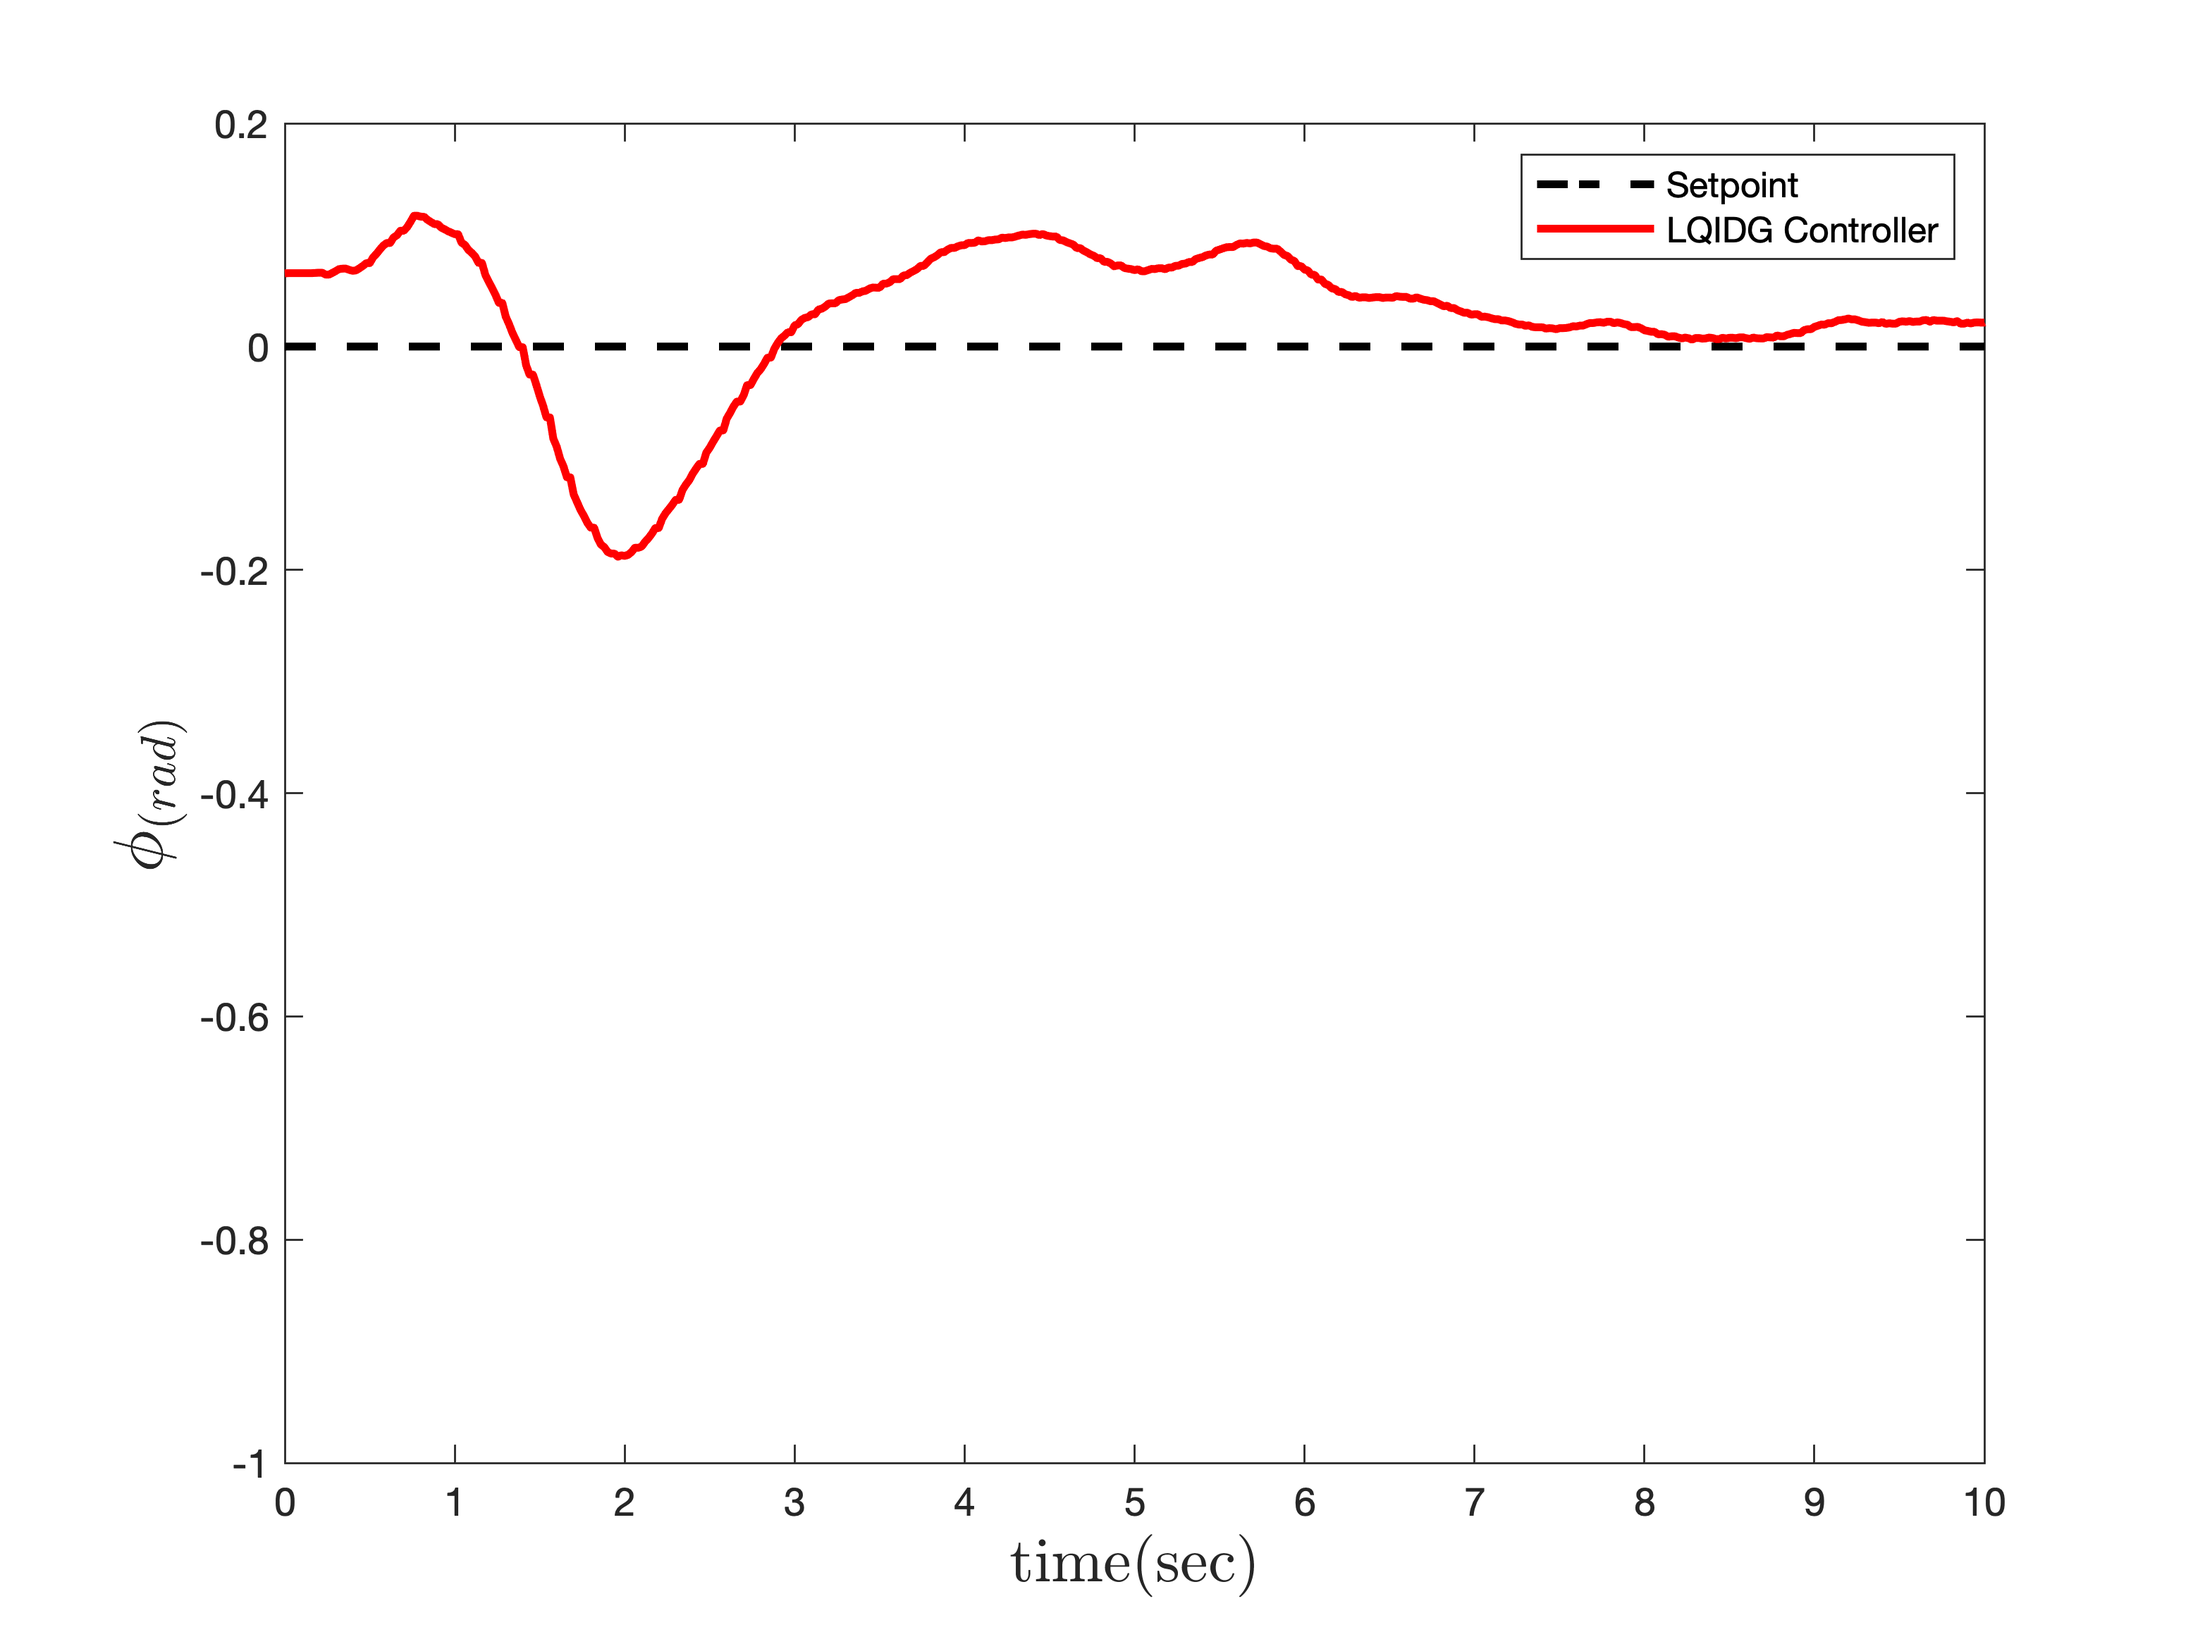
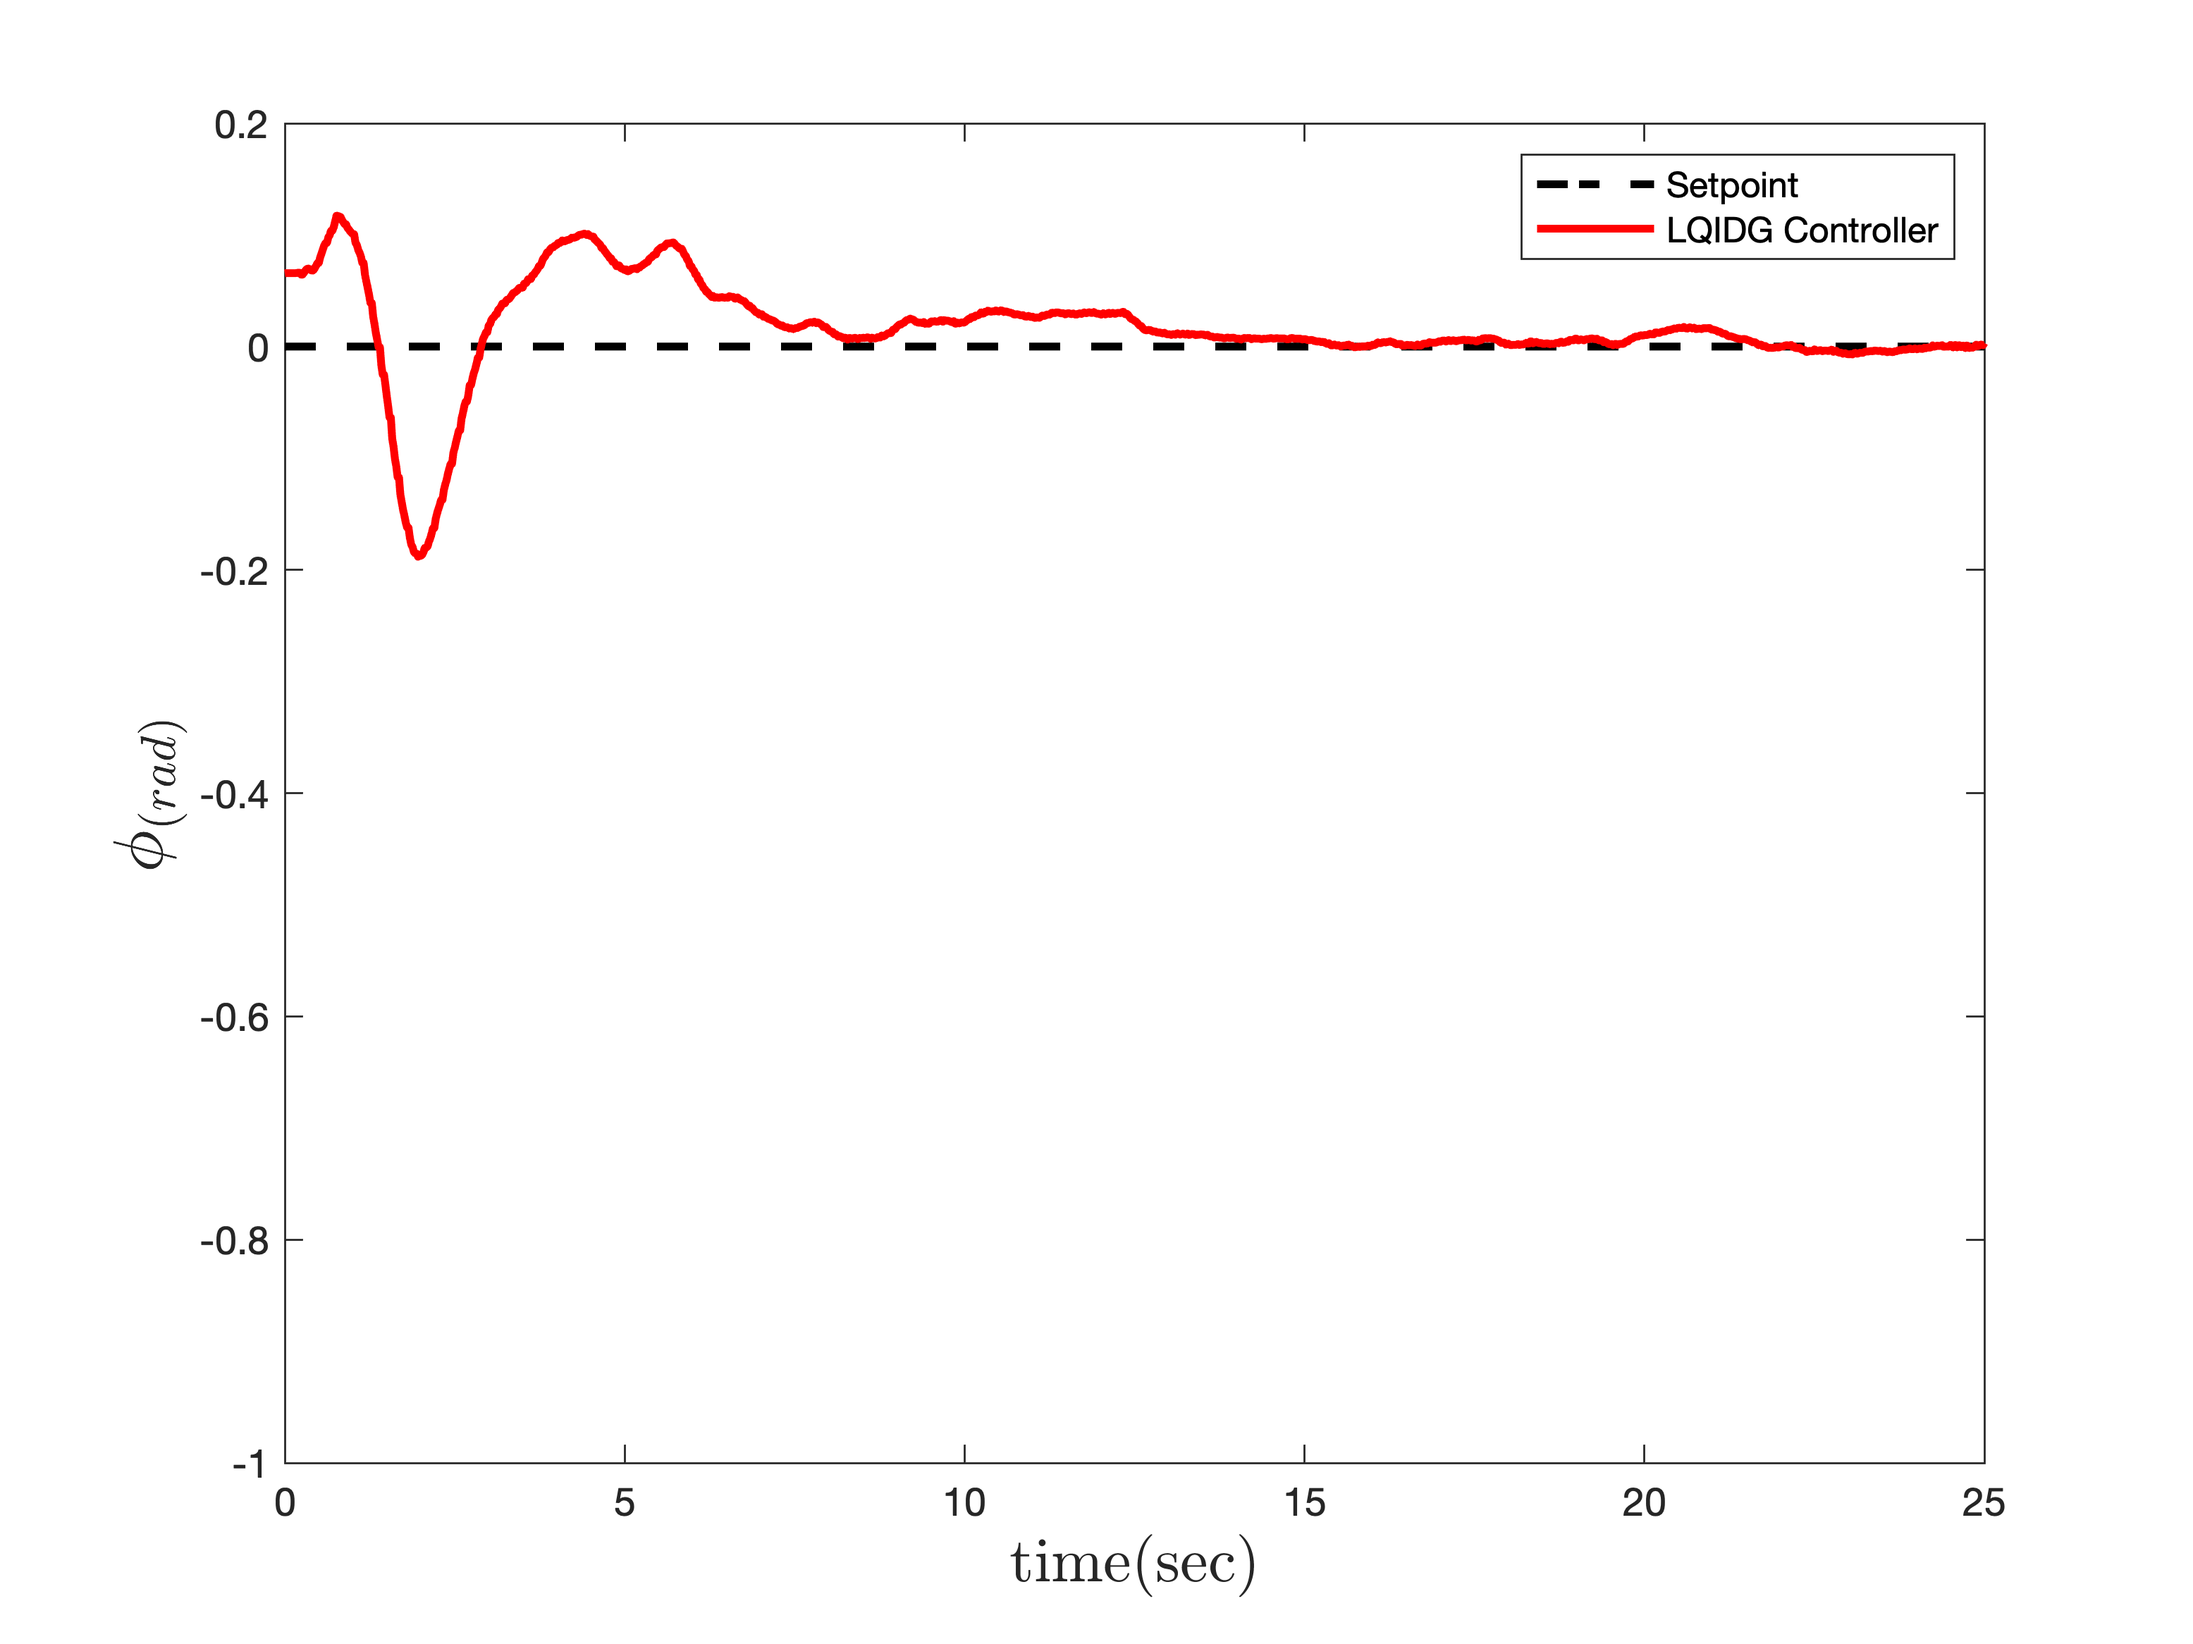
fix roll time in script and add new fig

diff --git a/Code/Simulink/Quadcopter/Calibration/LQIDG/Roll-Pitch-Yaw/ploter.m b/Code/Simulink/Quadcopter/Calibration/LQIDG/Roll-Pitch-Yaw/ploter.m
@@ -13,7 +13,7 @@ hold off;
 xlabel('time($\sec)$', 'interpreter', 'latex', 'FontSize', 16);
 ylabel('$\phi_{(rad)}$', 'interpreter', 'latex', 'FontSize', 18);
 legend('Setpoint', 'LQIDG Controller', 'Location','northeast');
-axis([0 10 -1 0.2])
+axis([0 25 -1 0.2])
 % % pitch rate q
 % subplot(2,1,2);
 % plot(time, zeros(1, length(time)), '--k', 'linewidth', 2);
